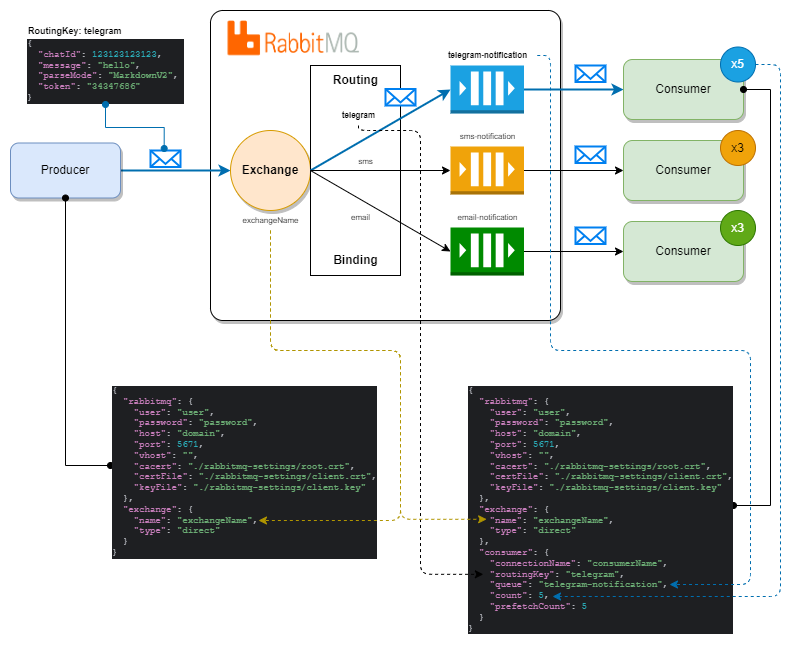
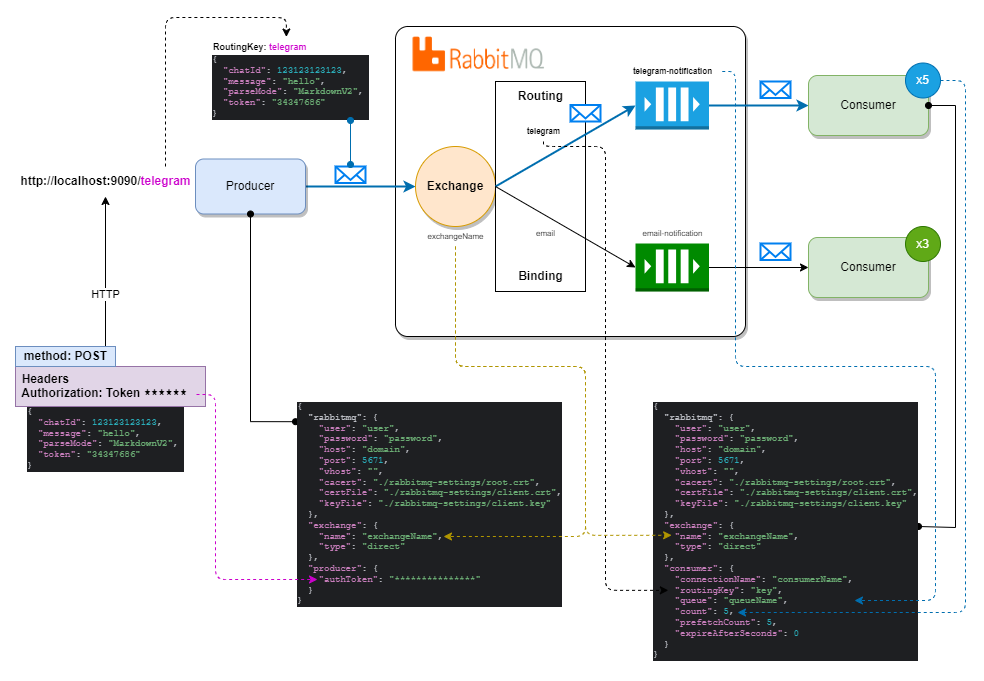
Настройки из файла конфигурации можно переопределить через переменные окружения

diff --git a/internal/config/config.go b/internal/config/config.go
@@ -57,6 +57,7 @@ func NewConfig() *Config {
 
 	decoder := json.NewDecoder(file)
 
+	// Значения по умолчанию.
 	configuration := Config{
 		Rabbitmq: RabbitMQConfig{
 			Port:  5671,
@@ -78,8 +79,32 @@ func NewConfig() *Config {
 		log.Fatalln("INVALID CONFIG FILE", err)
 	}
 
-	// Переопределяем через переменную окружения.
-	configuration.Producer.AuthToken = misc.GetEnv("PRODUCER_AUTH_TOKEN", configuration.Producer.AuthToken)
+	// Обновляем из переменных окружения.
+	configuration.updateFromEnv()
 
 	return &configuration
+}
+
+func (c *Config) updateFromEnv() {
+	// Переопределяем через переменные окружения.
+	c.Rabbitmq.User = misc.GetEnv("RABBITMQ_USER", c.Rabbitmq.User)
+	c.Rabbitmq.Password = misc.GetEnv("RABBITMQ_PASSWORD", c.Rabbitmq.Password)
+	c.Rabbitmq.Host = misc.GetEnv("RABBITMQ_HOST", c.Rabbitmq.Host)
+	c.Rabbitmq.Port = misc.GetIntEnv("RABBITMQ_PORT", c.Rabbitmq.Port)
+	c.Rabbitmq.Vhost = misc.GetEnv("RABBITMQ_VHOST", c.Rabbitmq.Vhost)
+	c.Rabbitmq.CaCert = misc.GetEnv("RABBITMQ_CACERT", c.Rabbitmq.CaCert)
+	c.Rabbitmq.CertFile = misc.GetEnv("RABBITMQ_CERTFILE", c.Rabbitmq.CertFile)
+	c.Rabbitmq.KeyFile = misc.GetEnv("RABBITMQ_KEYFILE", c.Rabbitmq.KeyFile)
+
+	c.Exchange.Name = misc.GetEnv("EXCHANGE_NAME", c.Exchange.Name)
+	c.Exchange.Type = misc.GetEnv("EXCHANGE_TYPE", c.Exchange.Type)
+
+	c.Consumer.ConnectionName = misc.GetEnv("CONSUMER_CONNECTION_NAME", c.Consumer.ConnectionName)
+	c.Consumer.RoutingKey = misc.GetEnv("CONSUMER_ROUTING_KEY", c.Consumer.RoutingKey)
+	c.Consumer.Queue = misc.GetEnv("CONSUMER_QUEUE", c.Consumer.Queue)
+	c.Consumer.Count = misc.GetIntEnv("CONSUMER_COUNT", c.Consumer.Count)
+	c.Consumer.PrefetchCount = misc.GetIntEnv("CONSUMER_PREFETCH_COUNT", c.Consumer.PrefetchCount)
+	c.Consumer.ExpireAfterSeconds = misc.GetUIntEnv("CONSUMER_EXPIRE_AFTER_SECONDS", c.Consumer.ExpireAfterSeconds)
+
+	c.Producer.AuthToken = misc.GetEnv("PRODUCER_AUTH_TOKEN", c.Producer.AuthToken)
 }

diff --git a/internal/notifier/email/config.go b/internal/notifier/email/config.go
@@ -10,7 +10,7 @@ import (
 
 type NotifierConfig struct {
 	Host     string `json:"host"`
-	Port     uint16 `json:"port"`
+	Port     uint64 `json:"port"`
 	Login    string `json:"login"`
 	Password string `json:"password"`
 }
@@ -37,4 +37,11 @@ func getConfig() *NotifierConfig {
 		log.Fatalln("INVALID CONFIG FILE", err)
 	}
 	return configuration.NotifierConfig
+}
+
+func (c *config) updateFromEnv() {
+	c.Host = misc.GetEnv("EMAIL_NOTIFIER_HOST", c.Host)
+	c.Port = misc.GetUIntEnv("EMAIL_NOTIFIER_PORT", c.Port)
+	c.Login = misc.GetEnv("EMAIL_NOTIFIER_LOGIN", c.Login)
+	c.Password = misc.GetEnv("EMAIL_NOTIFIER_PASSWORD", c.Password)
 }

diff --git a/internal/misc/misc.go b/internal/misc/misc.go
@@ -2,12 +2,35 @@ package misc
 
 import (
 	"os"
+	"strconv"
 )
 
 func GetEnv(key, _default string) string {
 	data := os.Getenv(key)
 	if len(data) > 0 {
 		return data
+	}
+	return _default
+}
+
+func GetIntEnv(key string, _default int) int {
+	data := os.Getenv(key)
+	if len(data) > 0 {
+		intData, err := strconv.Atoi(data)
+		if err != nil {
+			return intData
+		}
+	}
+	return _default
+}
+
+func GetUIntEnv(key string, _default uint64) uint64 {
+	data := os.Getenv(key)
+	if len(data) > 0 {
+		intData, err := strconv.ParseUint(data, 10, 32)
+		if err != nil {
+			return intData
+		}
 	}
 	return _default
 }

diff --git a/README.md b/README.md
@@ -55,6 +55,34 @@ bash rabbit-settings/create-certs.sh 'rabbitHost' 'rabbitUser';
 Через переменную окружения `CONFIG_FILE` можно указать, где искать файл конфигурации,
 по умолчанию - `/etc/rmq-notifier/config.json`
 
+Каждое значение файла конфигурации можно переопределить через переменную окружения. 
+
+Список переменных окружения:
+
+    RABBITMQ_USER
+    RABBITMQ_PASSWORD
+    RABBITMQ_HOST
+    RABBITMQ_PORT
+    RABBITMQ_VHOST
+    RABBITMQ_CACERT
+    RABBITMQ_CERTFILE
+    RABBITMQ_KEYFILE
+    EXCHANGE_NAME
+    EXCHANGE_TYPE
+    CONSUMER_CONNECTION_NAME
+    CONSUMER_ROUTING_KEY
+    CONSUMER_QUEUE
+    CONSUMER_COUNT
+    CONSUMER_PREFETCH_COUNT
+    CONSUMER_EXPIRE_AFTER_SECONDS
+    PRODUCER_AUTH_TOKEN
+
+    # Для email consumer (подключение к почтовому серверу)
+    EMAIL_NOTIFIER_HOST
+    EMAIL_NOTIFIER_PORT
+    EMAIL_NOTIFIER_LOGIN
+    EMAIL_NOTIFIER_PASSWORD
+
 `expireAfterSeconds` указывает время в секундах спустя которое сообщения для consumer будут
 пропущены и помечены как Acknowledge.
 
@@ -96,8 +124,6 @@ resp = requests.post(
 
 ### 2.2. Обработка через consumer
 
-Для запуска **consumer** должны быть указаны все значения в файле конфигурации
-
 
 ```shell
 notifier consumer telegram
@@ -127,13 +153,17 @@ notifier consumer telegram
 ```json
 {
   "sender": "user@mail.com",
-  "to": ["to-user@mail.ru"],
+  "to": [
+    "to-user1@mail.com",
+    "to-user2@mail.com"
+  ],
   "subject": "test",
   "body": "<h1>test</h1>"
 }
 ```
 
-Для работы `email` уведомителя необходимо в файле конфигураций указать настройки для подключения:
+Для работы `email` уведомителя необходимо в файле конфигураций указать настройки для подключения,
+либо через переменные окружения:
 
 ```json
 "emailNotifier": {
@@ -144,6 +174,12 @@ notifier consumer telegram
 }
 ```
 
-## 3. Схема работы
+## 3. Схема работы producer-consumer
 
 ![schema.png](docs/img/schema.png)
+
+## 3. Схема работы only-producer
+
+Producer не проверяет тело сообщения, так что можно передавать любые данные
+
+![schema.png](docs/img/only-producer.png)
